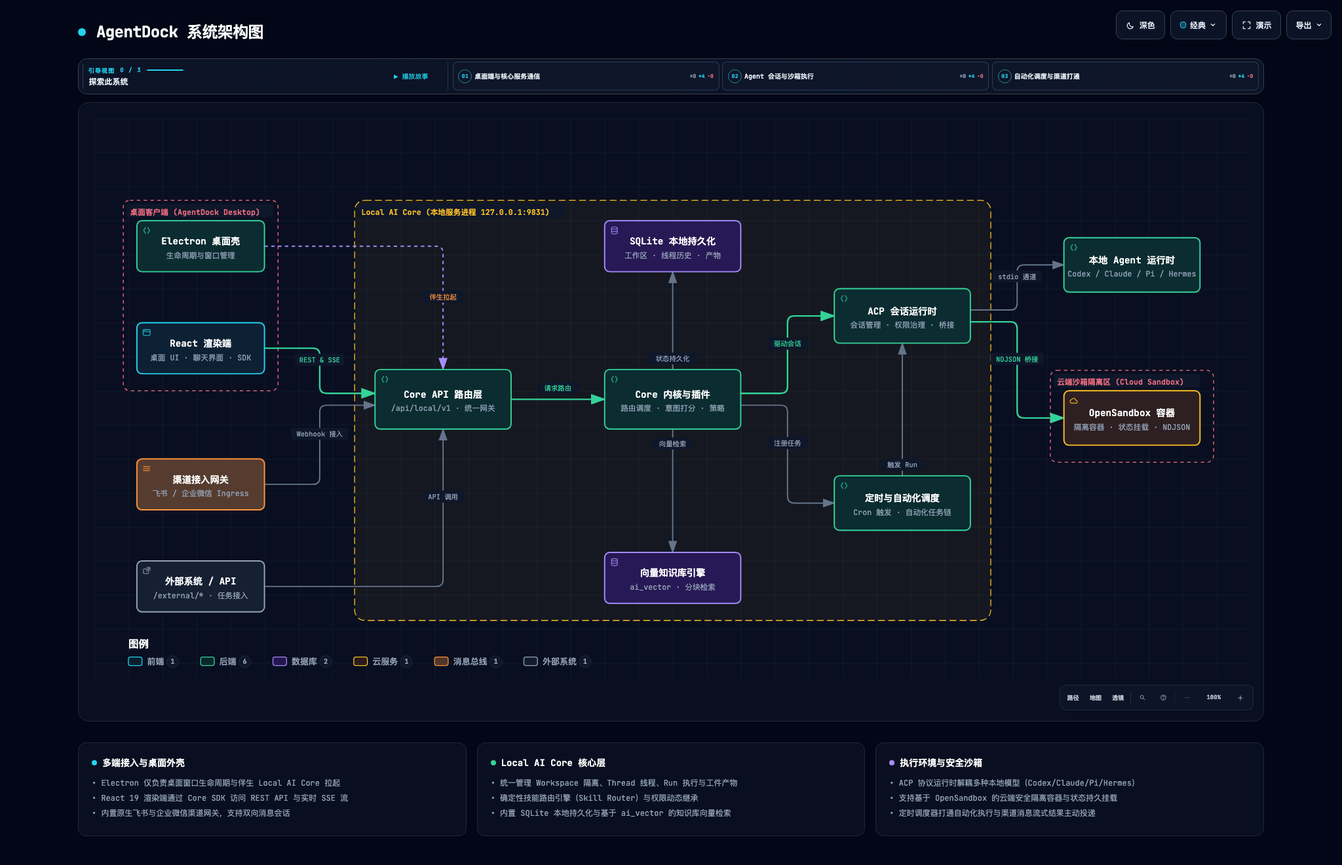
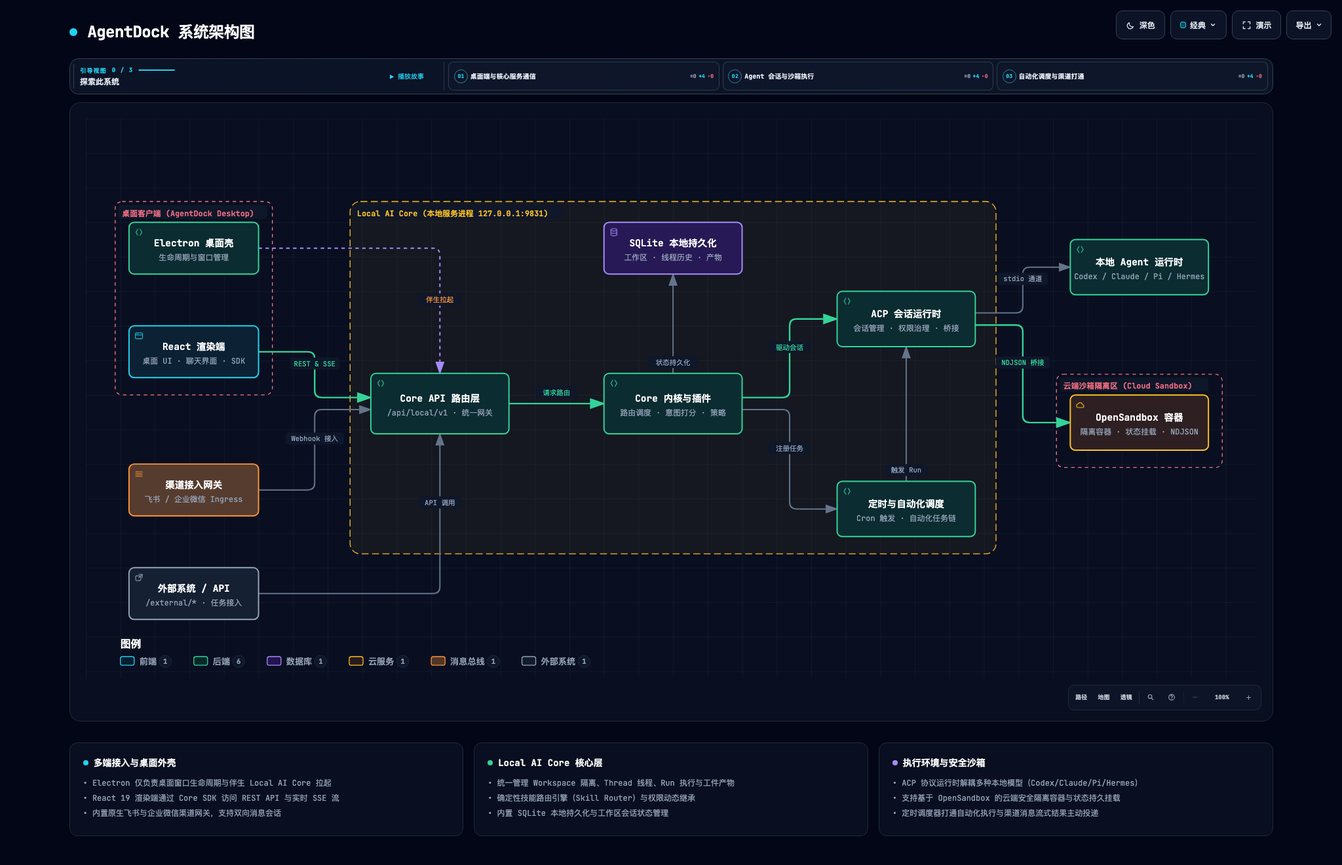
docs: Update architecture documentation and diagrams
- Update AGENTS.md to reflect latest monorepo architecture and packages
- Point CLAUDE.md to @AGENTS.md for single source of truth
- Refresh system architecture diagrams and update Core SDK in README.md

diff --git a/AGENTS.md b/AGENTS.md
@@ -1,20 +1,95 @@
 # Repository Guidelines
 
-## Project Structure & Module Organization
-`src/` contains the React renderer: page views in `src/pages/`, shared UI in `src/components/`, Zustand state in `src/store/`, API clients in `src/api/`, and i18n resources in `src/i18n/`. Electron-specific code lives in `electron/`, with shared desktop types in `shared/`. Cross-layer tests live in `tests/`, split into `tests/electron/`, `tests/contracts/`, and `tests/integration/`. Static assets belong in `public/`. Build outputs are generated in `dist/renderer/` and `dist-electron/`; do not edit them directly.
+## Project Overview & Monorepo Architecture
+
+AgentDock is a pnpm monorepo consisting of an Electron desktop shell, a React renderer, and a dedicated **Local AI Core** backend runtime.
+
+### Directory Layout
+
+- `packages/`: Shared workspace packages
+  - `contracts` (`@cc/superai-contracts`): Shared API and cross-process data contracts
+  - `core-sdk` (`@cc/core-sdk`): Client SDK for Local AI Core REST, WebSocket, and SSE APIs (used by renderer and external clients)
+  - `knowledge-api` (`@cc/knowledge-api`): Knowledge base SQLite store, indexing, and vector search abstractions
+  - `plugin-sdk` (`@cc/plugin-sdk`): Plugin contracts, agent runtime, channel, scheduler, and sandbox interfaces
+- `services/`: Core backend services
+  - `local-ai-core/`: The Node.js backend daemon (HTTP server, WebSocket event bus, ACP session orchestration, scheduler, channels)
+- `apps/`: Target application shell stubs (`shell-desktop`, `shell-web`)
+- `electron/`: Electron desktop shell (main process, window lifecycle, managed skill definitions)
+- `src/`: React 19 web/desktop renderer (pages, shared components, Zustand state, i18n)
+- `shared/`: Cross-process shared types (`shared/desktop.ts`)
+- `tests/`: Cross-layer tests (`tests/electron/`, `tests/contracts/`, `tests/integration/`, and `tests/bdd/`)
+- `public/`: Static assets
+- Build outputs: `dist/renderer/` (Vite output) and `dist-electron/` (compiled TypeScript output); do not edit them directly
+
+### Runtime Modes & Process Boundaries
+
+1. **Desktop Mode**: Electron launches Local AI Core as a child process (`ELECTRON_RUN_AS_NODE=1`), verifies health at `http://127.0.0.1:9831/api/local/v1/health`, then opens the renderer window. `electron/preload.ts` is intentionally empty — there is no Electron IPC bridge. All renderer-to-backend communication uses HTTP/WebSocket via `@cc/core-sdk`.
+2. **Web Admin Mode**: Connects directly to a remote or standalone Local AI Core instance via API token + server URL.
+
+The `desktopManaged` flag and `managedBy` state in `src/store/auth.ts` control the active mode, routing, and available desktop-specific features.
+
+### Two Separate TypeScript Compilations
+
+1. **Renderer** (`src/`): Compiled by Vite with ESM/react-jsx, outputs to `dist/renderer/`.
+2. **Backend & Electron** (`electron/`, `services/`, `packages/`): Compiled by `tsc -p tsconfig.electron.json` with CommonJS and alias resolution via `tsc-alias`, outputs to `dist-electron/`.
+
+Both compilation pipelines share contracts from `shared/` and `packages/contracts/`.
+
+### Local AI Core Subsystems (`services/local-ai-core/`)
+
+- **ACP** (`src/acp/`): Agent Client Protocol orchestration — session coordinator, transport, turn management, permissions, and streaming
+- **Kernel** (`src/kernel/`): Process bootstrap, event bus, SQLite database migrations, configuration management, plugin registry, and capability registry
+- **Router** (`src/router/`): Workspace routing, model provider routing, and channel bindings
+- **Runtime** (`src/runtime/`): HTTP REST API (`/api/local/v1/*`), WebSocket events (`/api/local/v1/events`), and external agent API (`/api/local/v1/external/*` with per-run SSE streaming)
+- **Channel** (`src/channel/`): Native enterprise messaging gateways (Lark/Feishu, WeChat Work) for inbound webhooks/long-polling and outbound interactive cards
+- **Scheduler** (`src/scheduler/`): Cron-based task scheduling, due polling, and automated delivery to threads and channels
+- **Automation** (`src/automation/`): Automation triggers, script approvals, and execution monitors
+- **Sandbox** (`src/sandbox/`): Docker and OpenSandbox container management for isolated agent runs
+- **Security** (`src/security/`): Permissions lifecycle, credential encryption, and execution boundaries
+- **Skills** (`src/skills/`): Deterministic skill routing, tool indexing, and skill discovery
+- **Cost** (`src/cost/`): Token usage tracking, budget constraints, and cost analytics
+- **Agents** (`src/agents/`): Agent runtime adapters and protocol translations (Claude Code, Codex, Pi, OpenCode)
+- **Thread** (`src/thread/`): Workspace thread ID management and thread knowledge bindings
+- **Plugins** (`src/plugins/builtin/`): Built-in plugins with lowercase dotted IDs (e.g. `channel.lark`, `scheduler.cron`, `knowledge.ai-vector`)
+- **CLI** (`src/cli/`): Command-line entry points
+
+### Renderer Structure (`src/`)
+
+- **Pages** (`src/pages/`): Feature views — `Automation/`, `Cost/`, `Cron/`, `Dashboard.tsx`, `Desktop/` (Workspaces), `Knowledge/`, `Providers/`, `Skills/`, `System/`, `Threads/` (ThreadChat, permission decisions)
+- **UI Components** (`src/components/`): Reusable UI built on Radix UI primitives (`src/components/ui/`), artifact visualizers (`src/components/artifacts/`), and execution timelines (`src/components/traces/`)
+- **API Client**: Consumes `@cc/core-sdk` (`packages/core-sdk`) rather than internal ad-hoc fetchers
+- **State** (`src/store/`): Zustand stores — `auth.ts` (auth, server connection, runtime mode), `theme.ts`
+- **App Registry** (`src/app/`): Dynamic UI contribution registry for nav items and views controlled by runtime capability detection
+- **i18n** (`src/i18n/`): Multi-language support (en, zh, zh-TW, ja, es)
+
+---
 
 ## Build, Test, and Development Commands
+
 Use `pnpm` for all local work.
 
-- `pnpm dev`: starts the Vite renderer and Electron app through `scripts/dev.mjs`.
-- `pnpm build`: builds the renderer, writes the Electron package metadata, and compiles the Electron TypeScript entrypoints.
-- `pnpm build:renderer`: builds only the web renderer into `dist/renderer/`.
-- `pnpm build:electron`: rebuilds only the Electron side into `dist-electron/`.
-- `pnpm test`: builds renderer and Electron outputs, then runs the compiled Node test suite.
-- `pnpm start:prod`: launches the packaged app from the current build output.
-- `pnpm e2e:smoke`: runs the bundled smoke test against a fresh production build.
+| Command | Purpose |
+|---|---|
+| `pnpm dev` | Starts Vite renderer + Electron app through `scripts/dev.mjs` |
+| `pnpm dev:web` | Starts standalone Vite renderer at `127.0.0.1:5173` |
+| `pnpm dev:core` | Builds Electron/Core and launches Local AI Core standalone via `scripts/launch-core.mjs` |
+| `pnpm build` | Full production build (`build:web` + `build:electron`) |
+| `pnpm build:renderer` | Builds web renderer into `dist/renderer/` |
+| `pnpm build:electron` | Compiles Electron, services, and packages into `dist-electron/` |
+| `pnpm start:prod` | Launches packaged app from current `dist-electron/` build |
+| `pnpm typecheck` | Runs TypeScript typechecks (`tsconfig.json` and `tests/bdd/tsconfig.json`) |
+| `pnpm test` | Runs typecheck, builds renderer + Electron, runs Node.js test runner, then executes BDD suite |
+| `pnpm test:bdd` | Runs Cucumber BDD feature tests (`tests/bdd/features/`) via `tsx` loader |
+| `pnpm coverage` | Measures test coverage using `c8` against `.c8rc.json` thresholds |
+| `pnpm verify` / `pnpm qa` | Runs all static gates, architecture lint, tests, and coverage checks |
+| `pnpm e2e:smoke` | Runs the bundled smoke test against a fresh production build |
+| `pnpm dist:mac` | Builds and packages macOS DMG and ZIP (`arm64`) |
+| `pnpm dist:win` | Builds and packages Windows NSIS installer and ZIP (`x64`) |
+
+---
 
 ## Quality Metrics
+
 - `pnpm lint:complexity`: reports cyclomatic complexity per function across TS source via ESLint `complexity` rule (default max threshold 15). CI gate: `pnpm lint:complexity:gate` (ESLint `--max-warnings 108` baseline).
 - `pnpm lint:circular`: reports circular import dependencies across source roots using `madge`. CI gate: `--fail` (zero-tolerance, baseline 0).
 - `pnpm lint:duplicate`: reports copy/paste duplicate code rate using `jscpd`. CI gate: `--fail` with `JSCPD_MIN_LINES=10`/`JSCPD_MIN_TOKENS=60`; lark/weixin gateway files are ignored (deliberately parallel implementations).
@@ -25,11 +100,29 @@ Use `pnpm` for all local work.
 - `pnpm lint:arch`: validates all architecture and workflow specifications in `docs/architecture/` via Archify showcase checks.
 - All gates aggregate in `pnpm lint:gates`; CI runs it plus `typecheck`/`test`/`coverage` in `.github/workflows/ci.yml`.
 
+---
+
 ## Coding Style & Naming Conventions
-The codebase uses TypeScript with `strict` mode enabled and the `@` alias for `src/` imports. Follow the existing style: 2-space indentation, semicolons in renderer code, and clear ESM imports. Use `PascalCase` for React components and page folders (`src/pages/Projects/ProjectList.tsx`), `camelCase` for functions and helpers, and lowercase filenames for stores and API modules (`src/store/auth.ts`, `src/api/client.ts`). Keep shared desktop contracts in `shared/` so renderer and Electron stay aligned.
+
+- TypeScript with `strict` mode enabled across all packages.
+- Path aliases: `@/` maps to `src/`, `@cc/*` maps to workspace packages in `packages/*`.
+- Formatting: 2-space indentation, semicolons in renderer code, and clear ESM imports.
+- Naming: `PascalCase` for React components and page folders (`src/pages/Desktop/Workspace.tsx`, `src/pages/Threads/ThreadChat.tsx`), `camelCase` for functions and helpers, and lowercase filenames for stores and SDK modules (`src/store/auth.ts`, `packages/core-sdk/src/client.ts`).
+- UI styling: Tailwind CSS with class-based dark mode, `@tailwindcss/typography`, and the project accent color `#42ff9c` (bright green).
+- Keep shared desktop and API contracts in `shared/` and `packages/contracts/` so renderer, Electron, and Local AI Core stay aligned.
+
+---
 
 ## Architecture Boundaries
-Keep the directory structure intentional, with clear ownership and single-purpose modules. Page components should orchestrate UI and data flow, shared components should stay presentation-focused, stores should own state transitions, API modules should isolate transport concerns, and Electron or Local AI Core logic should not leak into renderer code except through shared contracts. Keep dependencies pointing from low level to high level: low-level modules (shared contracts, SDKs, kernel interfaces) must never depend on higher-level modules (UI pages, components, specific plugins, or desktop shell code), and lower renderer layers (stores/API) must not depend on UI page views. Prefer small, cohesive files over broad utility modules, and move reusable behavior to the nearest appropriate shared layer only after a real second use appears. When a code file exceeds 1000 lines, consider splitting it. Keep agent runtime quirks in `services/local-ai-core/src/agents/<agent-id>/` first, and only move behavior into shared ACP/router/storage/renderer layers when the invariant truly applies across agents.
+
+Keep the directory structure intentional, with clear ownership and single-purpose modules:
+- Page components orchestrate UI and data flow; shared components stay presentation-focused; stores own state transitions; API communication is isolated in `@cc/core-sdk`.
+- Electron and Local AI Core internals must never leak into renderer code except through shared contracts and SDK APIs.
+- Strict one-way inward dependencies: low-level modules (shared contracts, SDKs, kernel interfaces) must never depend on higher-level modules (UI pages, components, specific plugins, or desktop shell code).
+- Prefer small, cohesive files over broad utility modules, and move reusable behavior to the nearest appropriate shared layer only after a real second use appears.
+- When a code file exceeds 1000 lines, consider splitting it.
+- Keep agent runtime quirks in `services/local-ai-core/src/agents/<agent-id>/` first, and only move behavior into shared ACP/router/storage/renderer layers when the invariant truly applies across agents.
+- When changing chat UI styles, consider all chat surfaces together: desktop app, web, mobile H5, and the different channel/session entry points.
 
 <!-- project-setup:architecture-maintenance:start -->
 ## Architecture maintenance
@@ -46,29 +139,63 @@ implementation. Completion requires the current architecture facts, one
 change record, provider artifacts and validation, and the README diagram to agree.
 <!-- project-setup:architecture-maintenance:end -->
 
-Architecture and flow diagrams live under `docs/architecture/` as typed Archify JSON specs (`system-architecture.json`, `*.workflow.json`, `*.sequence.json`, `*.lifecycle.json`). Update corresponding diagram specs alongside architectural or core workflow changes, validate via `pnpm lint:arch`, deliver showcase HTML/PNG artifacts, and keep `README.md` and `docs/architecture/overview.md` linked.
+### Architecture Specifications & Diagrams
+
+Architecture and flow diagrams live under `docs/architecture/` as typed Archify JSON specs:
+- **L1 System Architecture**: `system-architecture.json`
+- **L2 Scheduled Delivery Workflow**: `scheduled-delivery-workflow.json`
+- **L2 ACP Session Flow Sequence**: `acp-session-flow.sequence.json`
+- **L2 Skill Router Workflow**: `skill-router.workflow.json`
+- **L3 Agent Run Lifecycle**: `agent-run.lifecycle.json`
+
+Update corresponding diagram specs alongside architectural or core workflow changes, validate via `pnpm lint:arch`, deliver showcase HTML/PNG artifacts, and keep `README.md` and `docs/architecture/overview.md` linked.
+
+### Multi-Entity Identifiers
 
 When designing or connecting multi-entity models (such as `AutomationRun` wrapping an underlying `acpRunId`, or channel sessions wrapping threads), maintain clear semantic separation between the outer wrapper ID and the inner execution ID. Avoid treating all identifiers as generic strings. Downstream APIs and UI components must explicitly document and consume the precise target ID domain, and backend lookup methods should implement defensive alias resolution where cross-entity lookups are plausible.
 
-When changing chat UI styles, consider all chat surfaces together: desktop app, web, mobile H5, and the different channel/session entry points.
+---
 
 ## Plugin Development
-Plugin contracts and runtime types belong in `packages/plugin-sdk/`; keep cross-process data shapes in shared contracts instead of duplicating them in plugins. Built-in Local AI Core plugins live under `services/local-ai-core/src/plugins/builtin/`, with one focused file or folder per plugin and lowercase dotted ids such as `channel.lark` or `scheduler.cron`. Register plugins through the local core registry and declare dependencies in the manifest rather than relying on implicit load order. Put reusable kernel behavior in `services/local-ai-core/src/kernel/`, not inside individual plugins, and avoid adding dynamic plugin loading until the static registration path is stable.
 
-## Agent Workflow
-Before writing any code, describe the intended approach and wait for approval. If requirements are ambiguous, ask clarifying questions before writing any code. If a user request for code is not aligned with best practices, briefly explain the concern and suggest a better approach. When investigating issues, reason from first principles about the data model, event flow, and ownership boundaries; first locate whether the faulty state is in agent session storage, Local AI Core logs, SQLite thread records, bridge events, or live UI state, then decide whether the model or workflow needs improvement before applying localized patches. When bridging data across layers (e.g. from Automation lists to Run Trace drawers), trace the identifier from its origin table through SDK endpoints to backend SQL queries; never assume an outer entity's `.id` matches an inner execution runtime's `.id` without verification. When fixing a bug, start by writing a test that reproduces it, then fix the bug until the test passes. When adding a new feature, update the `README.md` `New` section with a concise user-visible note. After writing code, list relevant edge cases and suggest test cases to cover them. Every time the user corrects the agent, reflect on what went wrong and provide a plan to avoid repeating the same mistake.
+- Plugin contracts and runtime types belong in `packages/plugin-sdk/`; keep cross-process data shapes in shared contracts instead of duplicating them in plugins.
+- Built-in Local AI Core plugins live under `services/local-ai-core/src/plugins/builtin/`, with one focused file or folder per plugin and lowercase dotted IDs such as `channel.lark`, `scheduler.cron`, or `knowledge.ai-vector`.
+- Register plugins through the local core registry and declare dependencies in the manifest rather than relying on implicit load order.
+- Put reusable kernel behavior in `services/local-ai-core/src/kernel/`, not inside individual plugins, and avoid adding dynamic plugin loading until the static registration path is stable.
 
-When updating project progress, status notes, changelogs, or date-sensitive logs, verify the current date first and use concrete dates instead of stale relative dates.
+---
 
 ## Testing Guidelines
-There is no frontend unit-test runner configured in this snapshot. The main fast verification path is `pnpm test`, which builds renderer and Electron outputs and runs the Node test suite. Use `pnpm e2e:smoke` for packaged app smoke coverage. Keep single-module renderer tests near the feature they cover, put cross-layer Electron, contract, and integration tests under `tests/electron/`, `tests/contracts/`, or `tests/integration/`, and keep package-private tests under `packages/<name>/test/`.
 
-Always use realistic, production-aligned ID formats in tests (e.g., `run:agentdock::<uuid>:<timestamp>`, `automation-run:<uuid>`, `thread:<workspace>::<uuid>`) instead of neutral placeholders like `'run-1'` or `'test-id'`. Synthetic placeholder IDs create a false sense of security by masking mismatches between wrapper and execution entity identifiers. Tests covering cross-module flows must verify the end-to-end lookup through both primary IDs and aliases.
+- The primary verification suite is `pnpm test`, which runs `typecheck`, builds renderer and Electron outputs, executes the Node.js test runner across compiled tests (`dist-electron/tests/electron/*.test.js`, `dist-electron/tests/contracts/*.test.js`, `dist-electron/tests/integration/*.test.js`, `dist-electron/packages/knowledge-api/test/*.test.js`, `dist-electron/src/pages/Threads/thread-chat-permission.test.js`), and runs Cucumber BDD tests (`pnpm test:bdd`).
+- BDD feature specifications live under `tests/bdd/features/` with step definitions in `tests/bdd/step-definitions/`. They execute against TypeScript source using the `tsx` loader. Reach for a `.feature` when a behavior reads naturally as Given/When/Then scenarios.
+- Use `pnpm e2e:smoke` for packaged app smoke coverage.
+- Keep single-module renderer tests near the feature they cover, put cross-layer tests under `tests/electron/`, `tests/contracts/`, or `tests/integration/`, and keep package-private tests under `packages/<name>/test/`.
+- Always use realistic, production-aligned ID formats in tests (e.g. `run:agentdock::<uuid>:<timestamp>`, `automation-run:<uuid>`, `thread:<workspace>::<uuid>`) instead of neutral placeholders like `'run-1'` or `'test-id'`.
+- Use TDD selectively where it prevents repeated regressions: start by writing the smallest failing test that reproduces the bug, then fix the underlying invariant.
 
-Use TDD selectively where it prevents repeated regressions. Bug fixes should start with the smallest failing test that reproduces the issue, then pass by fixing the underlying invariant. Cross-layer features should add contract or state-machine coverage first, especially for ACP streaming, permission lifecycle, thread/task state, channel content normalization, scheduler behavior, and shared enum parsing. Pure UI polish, copy changes, and exploratory product work do not require strict TDD; validate them with focused manual checks, screenshots when useful, or smoke/e2e coverage. Release and packaging issues should be guarded with `pnpm build` and `pnpm e2e:smoke`.
+---
+
+## Agent Workflow
+
+- Before writing any code, describe the intended approach and wait for approval. If requirements are ambiguous, ask clarifying questions before writing code.
+- If a user request for code is not aligned with best practices, briefly explain the concern and suggest a better approach.
+- When investigating issues, reason from first principles about the data model, event flow, and ownership boundaries; first locate whether the faulty state is in agent session storage, Local AI Core logs, SQLite thread records, bridge events, or live UI state, then decide whether the model or workflow needs improvement before applying localized patches.
+- When bridging data across layers (e.g. from Automation lists to Run Trace drawers), trace the identifier from its origin table through SDK endpoints to backend SQL queries; never assume an outer entity's `.id` matches an inner execution runtime's `.id` without verification.
+- When fixing a bug, start by writing a test that reproduces it, then fix the bug until the test passes.
+- When adding a new feature, update the `README.md` `New` section with a concise user-visible note.
+- After writing code, list relevant edge cases and suggest test cases to cover them.
+- When updating project progress, status notes, changelogs, or date-sensitive logs, verify the current date first and use concrete dates instead of stale relative dates.
+- Every time the user corrects the agent, reflect on what went wrong and provide a plan to avoid repeating the same mistake.
+
+---
 
 ## Commit & Pull Request Guidelines
-Before committing or pushing code, run the same gates CI runs: `pnpm typecheck`, `pnpm lint:gates` (the CI-pinned gate variants with `--fail`/baseline args), and `pnpm test`, to ensure zero TS errors, zero circular dependencies, no new duplicate code blocks, no new dead symbols or long functions, no new ESLint warnings, and 100% test pass rate. Use short, imperative commit subjects such as `Add bridge runtime retry` or `Fix smoke test startup timing`. Keep pull requests focused, describe user-visible changes, list validation commands you ran, and include screenshots for UI updates.
+
+Before committing or pushing code, run the same gates CI runs: `pnpm verify` (or `pnpm typecheck`, `pnpm lint:gates`, `pnpm lint:arch`, `pnpm test`, and `pnpm coverage`), to ensure zero TS errors, zero circular dependencies, no new duplicate code blocks, no new dead symbols or long functions, no new ESLint warnings, and 100% test pass rate. Use short, imperative commit subjects such as `Add bridge runtime retry` or `Fix smoke test startup timing`. Keep pull requests focused, describe user-visible changes, list validation commands you ran, and include screenshots for UI updates.
+
+---
 
 ## Configuration Notes
-Development scripts honor Electron runtime overrides such as `AI_WORKSTATION_USER_DATA_DIR` and `AI_WORKSTATION_SMOKE_OUTPUT`. Avoid committing machine-specific paths, secrets, or generated output.
+
+Development scripts honor Electron runtime overrides such as `AI_WORKSTATION_USER_DATA_DIR`, `AI_WORKSTATION_SMOKE_OUTPUT`, and `AI_WORKSTATION_DEV_SERVER_URL`. Avoid committing machine-specific paths, secrets, or generated output.

diff --git a/CLAUDE.md b/CLAUDE.md
@@ -4,166 +4,3 @@
 @AGENTS.md
 <!-- project-setup:shared-agent-rules:end -->
 
-This file provides guidance to Claude Code (claude.ai/code) when working with code in this repository.
-
-## Project Overview
-
-AgentDock is a pnpm monorepo — an Electron + React desktop shell that spawns and manages a **Local AI Core** backend (a Node.js HTTP server). The renderer communicates with Local AI Core via standard HTTP/WebSocket APIs, not Electron IPC.
-
-Two runtime modes:
-- **Desktop mode**: Electron spawns Local AI Core as a child process, renderer talks to `127.0.0.1:9831` via HTTP/WS
-- **Web admin mode**: Connects to a remote Local AI Core instance via API token + server URL
-
-The `desktopManaged` flag in the auth store (`src/store/auth.ts`) and `managedBy` (`none` | `electron` | `local_core` | `remote`) control which mode is active, affecting routing and available features.
-
-## Build & Dev Commands
-
-All commands use `pnpm`.
-
-| Command | Purpose |
-|---|---|
-| `pnpm dev` | Start Vite renderer + tsc watch + Electron (via `scripts/dev.mjs`) |
-| `pnpm dev:web` | Vite renderer only at `127.0.0.1:5173` |
-| `pnpm dev:core` | Build Electron + launch Local AI Core standalone |
-| `pnpm build` | Full production build (renderer + Electron) |
-| `pnpm build:renderer` | Build only the React frontend to `dist/renderer/` |
-| `pnpm build:electron` | Build only Electron main process to `dist-electron/` |
-| `pnpm start:prod` | Run the built Electron app |
-| `pnpm test` | Run tests via Node.js built-in test runner (Electron + knowledge-api + thread-permission tests) |
-| `pnpm e2e:smoke` | Full build + E2E smoke test |
-| `pnpm dist:mac` | Build + package macOS DMG/ZIP (arm64 only) |
-
-## Architecture
-
-### Monorepo Structure
-
-```
-packages/        Shared packages (contracts, core-sdk, knowledge-api, plugin-sdk)
-services/        Local AI Core runtime service
-apps/            Future shell directories (shell-desktop, shell-web — stubs)
-shared/          Cross-process shared types (desktop.ts)
-electron/        Electron main process + preload + managed skills + tests
-src/             React renderer
-tests/           Cross-layer tests (electron, contracts, integration)
-public/          Static assets
-```
-
-### Two Separate TypeScript Compilations
-1. **Renderer** (`src/`): Compiled by Vite with ESM/react-jsx, outputs to `dist/renderer/`
-2. **Electron main + services + packages** (`electron/`, `services/`, `packages/`): Compiled by `tsc` with CommonJS, outputs to `dist-electron/`
-
-Both share types from `shared/` — the single source of truth for interfaces crossing the process boundary.
-
-### Electron Shell
-
-`electron/main.ts` is intentionally thin (~170 lines): it spawns Local AI Core as a child process (`ELECTRON_RUN_AS_NODE=1`), waits for health at `http://127.0.0.1:9831/api/local/v1/health`, then loads the renderer in a BrowserWindow. `electron/preload.ts` is empty — there is no Electron IPC bridge. All renderer-to-backend communication uses HTTP/WebSocket through `src/api/`.
-
-`electron/managed-skills/` contains agent skill definitions (browser automation, knowledge base search) used by the Local AI Core runtime.
-
-### Local AI Core (`services/local-ai-core/`)
-
-The core backend runtime with these subsystems:
-- **ACP** (`src/acp/`): Agent Client Protocol integration — session coordination, transport, turn management, permissions, response processing
-- **CLI** (`src/cli/`): Command-line entry point
-- **Channel** (`src/channel/`): shared channel contracts plus isolated Lark/Feishu and WeChat gateway implementations
-- **Kernel** (`src/kernel/`): Bootstrap, event bus, lifecycle, plugin registry, capability registry
-- **Plugins** (`src/plugins/builtin/`): Built-in plugins with lowercase dotted IDs (e.g., `channel.lark`, `scheduler.cron`, `knowledge.noop`)
-- **Router** (`src/router/`): Workspace routing and route configuration
-- **Runtime** (`src/runtime/`): Core controller (lifecycle/config/events), HTTP server with per-domain route handlers, channel service, external service, runtime state and detection
-- **Scheduler** (`src/scheduler/`): Cron-based task scheduling with platform-specific adapters (Lark, WeChat)
-- **Thread** (`src/thread/`): Workspace thread ID and mapper utilities
-
-### Shared Packages (`packages/`)
-
-- **contracts**: Local Core type definitions
-- **core-sdk**: Client SDK for Local AI Core APIs
-- **knowledge-api**: Noop knowledge provider, thread attachment store
-- **plugin-sdk**: Plugin contracts and runtime types
-
-### Renderer Structure (`src/`)
-
-- **Pages** (`src/pages/`): Feature-organized — Dashboard, Login, Desktop/Workspace, Threads/ThreadChat, Knowledge, Projects, Sessions, Cron, System, Web/Chat
-- **UI components** (`src/components/ui/`): Custom component library using Radix UI primitives (Button, Card, Badge, Modal, Input/Select/Textarea, Page)
-- **API clients** (`src/api/`): `client.ts` has the base `ApiClient` singleton; feature modules wrap specific endpoints
-- **State** (`src/store/`): Zustand stores — `auth.ts` (auth + runtime mode), `theme.ts`
-- **App registry** (`src/app/`): UI contribution registry — routes and nav items registered dynamically, visibility controlled by runtime feature detection
-- **Routing**: `HashRouter` in desktop mode, `BrowserRouter` in web mode
-- **i18n** (`src/i18n/`): 5 languages (en, zh, zh-TW, ja, es)
-
-### Shared types (`shared/desktop.ts`)
-
-Central type definitions including: agent type constants (`opencode`, `claudecode`, `cursor`, `gemini`, `localcore-acp`, etc.), platform types (`telegram`, `feishu`, `lark`, `discord`, `slack`, `weixin`, etc.), provider presets, and interfaces for desktop settings, service state, runtime status, plugin config, bridge events, and config file state.
-
-### Tech Stack
-
-React 19, Electron 35, Vite 6.3, TypeScript 5.8 (strict), Tailwind CSS 3.4, Zustand 5, react-router-dom 7.5, Radix UI, i18next, react-markdown + highlight.js, Node.js built-in test runner
-
-## Architecture Boundaries
-
-Keep the directory structure intentional with clear ownership and single-purpose modules. Page components orchestrate UI and data flow, shared components stay presentation-focused, stores own state transitions, API modules isolate transport concerns, and Local AI Core logic does not leak into renderer code except through shared contracts. Prefer small, cohesive files over broad utility modules, and move reusable behavior to the nearest appropriate shared layer only after a real second use appears. When a file exceeds 1000 lines, consider splitting it. Keep agent runtime quirks in `services/local-ai-core/src/agents/<agent-id>/` first, and only move behavior into shared ACP/router/storage/renderer layers when the invariant truly applies across agents.
-
-When changing chat UI styles, consider all chat surfaces together: desktop app, web, mobile H5, and the different channel/session entry points.
-
-## Plugin Development
-
-Plugin contracts and runtime types belong in `packages/plugin-sdk/`; keep cross-process data shapes in shared contracts instead of duplicating them in plugins. Built-in plugins live under `services/local-ai-core/src/plugins/builtin/`, one focused file per plugin with lowercase dotted IDs (e.g., `channel.lark`, `scheduler.cron`). Register plugins through the local core registry and declare dependencies in the manifest rather than relying on implicit load order. Put reusable kernel behavior in `services/local-ai-core/src/kernel/`, not inside individual plugins, and avoid adding dynamic plugin loading until the static registration path is stable.
-
-## Conventions
-
-- 2-space indentation, semicolons in renderer code
-- `@/` path alias maps to `src/`
-- `PascalCase` for components and page folders, `camelCase` for functions/helpers, lowercase filenames for stores and API modules
-- Accent color `#42ff9c` (bright green) throughout the UI
-- Tailwind class-based dark mode with `@tailwindcss/typography`
-- Keep shared contracts in `shared/` so renderer and backend stay type-aligned
-- Environment variables: `AI_WORKSTATION_USER_DATA_DIR`, `AI_WORKSTATION_SMOKE_OUTPUT`, `AI_WORKSTATION_DEV_SERVER_URL`
-
-## Testing
-
-`pnpm test` builds renderer and Electron outputs, then runs the compiled Node test suite. `pnpm e2e:smoke` exercises the full built Electron app end to end.
-
-When adding tests, keep single-module renderer tests near the feature they cover, put cross-layer Electron/contract/integration tests under `tests/electron/`, `tests/contracts/`, or `tests/integration/`, and keep package-private tests under `packages/<name>/test/`.
-
-Gherkin behavior specs (`.feature` files) live under `tests/bdd/features/` with step definitions in `tests/bdd/step-definitions/` and per-scenario state in `tests/bdd/support/world.ts`. They run via Cucumber against TypeScript source (registered through the `tsx` loader, not the compiled `dist-electron` output) with `pnpm test:bdd`, which is also appended to `pnpm test`. Reach for a `.feature` when a behavior reads naturally as Given/When/Then scenarios; keep step definitions thin and delegate the real work to the same pure functions the unit tests exercise.
-
-Use TDD selectively where it prevents repeated regressions. Bug fixes should start with the smallest failing test that reproduces the issue. Cross-layer features should add contract or state-machine coverage first, especially for ACP streaming, permission lifecycle, thread/task state, channel content normalization, scheduler behavior, and shared enum parsing. Pure UI polish, copy changes, and exploratory product work do not require strict TDD; validate them with focused manual checks, screenshots when useful, or smoke/e2e coverage.
-
-## Quality metrics
-
-`pnpm lint:complexity` reports cyclomatic complexity per function across the TS source (`src/`, `services/`, `packages/`, `electron/`, `shared/`) via ESLint's `complexity` rule. It is a report locally — the rule is `warn`, so `lint:complexity` exits 0; `lint:complexity:gate` runs ESLint with `--max-warnings 108` (the current baseline) so new warnings fail CI. Tune the threshold in [eslint.config.mjs](eslint.config.mjs) (`complexity: ['warn', { max }]`); the project default is 15.
-
-`pnpm lint:circular` reports **circular (cyclic) import dependencies** across the same source roots, using [madge](https://github.com/pahen/madge) to build the import graph (honoring the `@cc/*` and `@/*` aliases from the root tsconfig) and collapsing it into **strongly-connected components** via Tarjan's algorithm — so one tangled cluster shows up once instead of as N overlapping paths. Each SCC of size > 1 is a genuine directed cycle and is printed with its files, largest first. It is a report locally — pass `--fail` to gate CI on cycles (zero-tolerance; the baseline is 0). The script lives in `scripts/lint-circular.mjs`.
-
-`pnpm lint:duplicate` reports the **copy/paste (duplicate code) rate** across the same source roots using [jscpd](https://github.com/kucherenko/jscpd). It prints total files/lines scanned, duplicated lines and tokens, the **duplicate rate** as both a line percentage and a token percentage, a per-format breakdown (typescript vs tsx), and the ten largest duplicated blocks. It is a report locally — pass `--fail` to gate CI on any clone. The CI gate runs with `JSCPD_MIN_LINES=10`/`JSCPD_MIN_TOKENS=60` (meaningful clones only) and ignores the lark/weixin gateway files, which are deliberately parallel implementations of the same inbound protocol. The script lives in `scripts/lint-duplicate.mjs`; tune detection with the `JSCPD_MIN_LINES` and `JSCPD_MIN_TOKENS` environment variables (defaults 5 lines / 25 tokens).
-
-`pnpm lint:dead-code` reports **unused exports, unused types, and duplicate exports** across the same source roots using [knip](https://github.com/webpro/knip). It prints files analyzed, a per-type breakdown (exports / types / duplicates / …), and the top 15 offenders with sample symbol names. It is a report locally — pass `--fail --max-count 171` to gate CI on new dead symbols (incremental gate: the current baseline is 170 symbols; 171 is the hard cap that leaves one slot of slack for cross-platform knip variance, anything beyond it fails). The script lives in `scripts/lint-dead-code.mjs`. Accuracy improves once a `knip.json` declares the project's entry points (e.g. `electron/main.ts`, `services/local-ai-core`) — without it, knip may under-report symbols that entries consume.
-
-`pnpm lint:function-length` reports **functions whose line span meets a threshold** across the same source roots by walking the TypeScript AST (via the `typescript` package). It covers function declarations, function expressions, arrow functions, methods, accessors, and constructors; prints files scanned, a count of long functions, and the 20 longest with name and line range. It is a report locally — pass `--fail --max-count 45` to gate CI on new long functions (incremental gate over the baseline of 45). The script lives in `scripts/lint-function-length.mjs`; tune the threshold with the `FUNC_MIN_LINES` environment variable (default 100).
-
-`pnpm lint:file-size` reports **source files whose line count meets a threshold** across the same source roots. It prints files scanned, total and average line counts, and the largest files. It is a report locally — pass `--fail` to gate CI on any over-sized file (zero-tolerance). The script lives in `scripts/lint-file-size.mjs`; tune the threshold with the `FILE_MIN_LINES` environment variable (default 1000, matching the "consider splitting past 1000 lines" guidance).
-
-Both `lint:function-length` and `lint:file-size` share their file discovery (source roots + ignore patterns) via `scripts/lint-metrics-common.mjs`, so the ignore set stays in lockstep with `eslint.config.mjs`.
-
-All five lint gates plus the ESLint warning cap run together as `pnpm lint:gates`, which CI executes in the `lint` job; `pnpm typecheck` gates in the same job, `pnpm test` in the `test` job, and `pnpm coverage` in the `coverage` job.
-
-`pnpm coverage` measures **branch/line/function coverage** of the Node test suite across the same source roots using [c8](https://github.com/bcoe/c8), which leverages V8's built-in coverage and remaps it back to TypeScript source via source maps. It prints a text summary to stdout and writes HTML + lcov reports to `coverage/` and `lcov.info`. It gates CI on the `check-coverage` thresholds in [.c8rc.json](.c8rc.json) (lines/statements 68, functions 72, branches 66). The script lives in `scripts/coverage.mjs`. The production build stays source-map-free: coverage builds use a separate [tsconfig.coverage.json](tsconfig.coverage.json) that adds `sourceMap`.
-
-## Agent Workflow
-
-- Before writing any code, describe the intended approach and wait for approval
-- If requirements are ambiguous, ask clarifying questions before writing code
-- If a user request conflicts with best practices, briefly explain the concern and suggest a better approach
-- When fixing a bug, start by writing a test that reproduces it, then fix the bug until the test passes. When investigating issues, reason from first principles about the data model, event flow, and ownership boundaries; locate whether the faulty state is in agent session storage, Local AI Core logs, SQLite thread records, bridge events, or live UI state before deciding on a fix
-- When adding a new feature, update the `README.md` `New` section with a concise user-visible note
-- When updating project progress, status notes, changelogs, or date-sensitive logs, verify the current date first and use concrete dates instead of stale relative dates
-- After writing code, list relevant edge cases and suggest test cases to cover them
-- Every time the user corrects you, reflect on what went wrong and provide a plan to avoid repeating the same mistake
-
-## Commit & PR Guidelines
-
-Use short, imperative commit subjects such as `Add bridge runtime retry` or `Fix smoke test startup timing`. Keep pull requests focused, describe user-visible changes, list validation commands you ran, and include screenshots for UI updates. Avoid committing machine-specific paths, secrets, or generated output.
-
-
-## Configuration Notes
-
-Development scripts honor Electron runtime overrides such as `AI_WORKSTATION_USER_DATA_DIR` and `AI_WORKSTATION_SMOKE_OUTPUT`. Avoid committing machine-specific paths, secrets, or generated output.

diff --git a/README.md b/README.md
@@ -13,7 +13,7 @@ React 19 · Electron 35 · Vite · TypeScript · Tailwind CSS · Zustand · i18n
 
 ## 系统架构
 
-AgentDock 由 Electron 桌面壳、React/Web 渲染入口、Local AI Core、OpenSandbox 云端运行层和外部 Agent API 组成。Electron 只负责桌面生命周期、窗口和本地 core 启动；React/Web 通过 API client 访问 Local AI Core；Local AI Core 统一管理 workspace、thread、run、ACP 流式事件、channel 网关、定时任务、知识库、sandbox 启动与外部系统映射。云端 sandbox 模式通过 OpenSandbox 创建隔离容器，容器内 agent runtime 通过 HTTP NDJSON ACP bridge 与 Local AI Core 通信。外部系统可通过 `/api/local/v1/external/*` 创建或复用项目、发起 agent run，并通过 per-run SSE 订阅过程。
+AgentDock 由 Electron 桌面壳、React/Web 渲染入口、Local AI Core、OpenSandbox 云端运行层和外部 Agent API 组成。Electron 只负责桌面生命周期、窗口和本地 core 启动；React/Web 通过 Core SDK 访问 Local AI Core；Local AI Core 统一管理 workspace、thread、run、ACP 流式事件、channel 网关、定时调度、sandbox 启动与外部系统映射。云端 sandbox 模式通过 OpenSandbox 创建隔离容器，容器内 agent runtime 通过 HTTP NDJSON ACP bridge 与 Local AI Core 通信。外部系统可通过 `/api/local/v1/external/*` 创建或复用项目、发起 agent run，并通过 per-run SSE 订阅过程。
 
 <!-- project-setup:architecture-diagram:start -->
 <p align="center">
